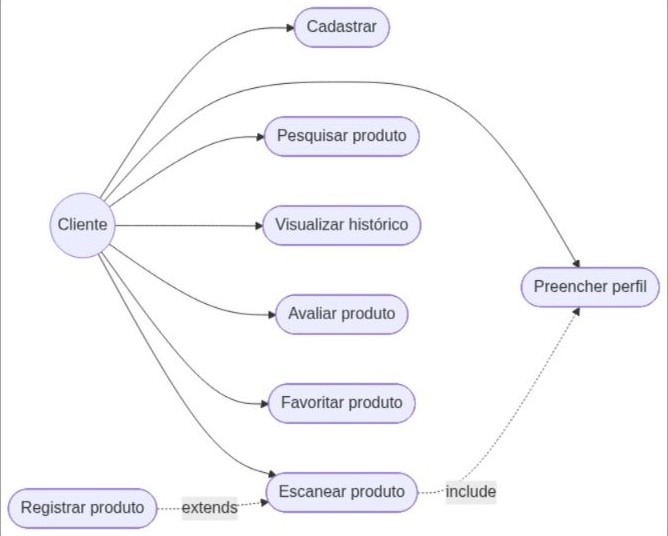
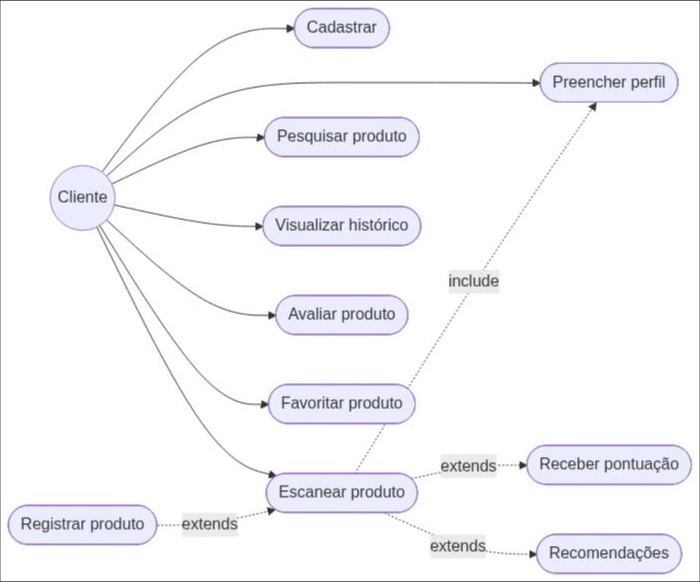
revert direct EQS documentation commits

diff --git a/docs/eqs entrega/Documentacao_Entrega_EQS_Venus.md b/docs/eqs entrega/Documentacao_Entrega_EQS_Venus.md
@@ -38,11 +38,11 @@ A decisão arquitetural aplicada foi separar verdade operacional, cálculo deter
 | Fonte | Conteúdo incorporado |
 |---|---|
 | Planejamento Venus | objetivo, visão, stack, dinâmica, papéis, escopo, fases, riscos, qualidade e entregáveis |
-| Padrão de Projeto.docx | referência do planejamento; arquivo original não versionado; padrões comprovados no código estão descritos na seção 28 |
-| Requisitos.xlsx | referência do planejamento; arquivo original não versionado; requisitos transcritos e rastreados nesta entrega |
+| Padrão de Projeto.docx | padrão Repository aplicado ao Venus-CRUD |
+| Requisitos.xlsx | 131 requisitos funcionais, técnicos, de segurança, UX e não funcionais |
 | Draw.io de casos de uso | cadastro, perfil, scan, pesquisa, histórico, avaliação, favoritos, pontuação e recomendação |
 | Draw.io de atividades | fluxos de perfil e escaneamento |
-| Texto colado do Jira | 170 itens com chave, tipo, responsável, status, prioridade e datas |
+| [Backlog do Jira (projeto SCRUM)](https://venus2026.atlassian.net/jira/software/projects/SCRUM/boards/1/backlog) | 170 itens com chave, tipo, responsável, status, prioridade e datas |
 
 ### Repos do projeto
 
@@ -721,8 +721,8 @@ stateDiagram-v2
     [*] --> pending_review
     pending_review --> approved: revisão/aprovação
     pending_review --> rejected: revisão/rejeição
-    approved --> synced: /sync concluído
-    approved --> sync_failed: /sync falhou
+    approved --> synced: sincronizou na aprovação
+    approved --> sync_failed: falhou na aprovação
     sync_failed --> synced: nova tentativa de /sync concluída
     sync_failed --> sync_failed: nova tentativa falhou
     rejected --> [*]
@@ -836,13 +836,13 @@ A IA explica o resultado, mas não substitui a Classificação nem altera a font
 
 ### Diagramas Draw.io inseridos no corpo da entrega
 
-![Diagrama de casos de uso do Venus](venus-diagrama-casos-de-uso.png)
+![Diagrama de casos de uso do Venus](diagramas-png/venus-eqs-casos-de-uso.png)
 
-![Diagrama de atividades do perfil](venus-diagrama-atividades-perfil.png)
+![Diagrama de atividades do perfil](diagramas-png/venus-eqs-atividades-perfil.png)
 
-![Diagrama de atividades do scan](venus-diagrama-atividades-scan.png)
+![Diagrama de atividades do scan](diagramas-png/venus-eqs-atividades-scan.png)
 
-As imagens acima foram geradas a partir dos três arquivos Draw.io originais do planejamento e ficam no mesmo diretório desta documentação para compor o corpo do texto.
+As imagens acima foram exportadas a partir dos três arquivos Draw.io originais do planejamento e ficam em `diagramas-png/` para compor o corpo do texto.
 
 ### Rastreabilidade entre casos de uso e requisitos funcionais
 
@@ -862,7 +862,7 @@ A numeração abaixo segue a planilha Requisitos.xlsx. Os intervalos representam
 | Pesquisar produto | 69 a 72 |
 | Chatbot/IA (complementar ao diagrama original) | 65 a 68 |
 
-A leitura do diagrama é: Escanear produto inclui Preencher perfil; Registrar produto estende Escanear produto quando o item não existe. Os casos Cadastrar, Pesquisar produto, Visualizar histórico, Avaliar produto e Favoritar produto são acionados diretamente pelo cliente.
+A leitura do diagrama é: Escanear produto inclui Preencher perfil; Registrar produto estende Escanear produto quando o item não existe; e o fluxo de Escanear produto estende Receber pontuação e Recomendações. Os casos Cadastrar, Pesquisar produto, Visualizar histórico, Avaliar produto e Favoritar produto são acionados diretamente pelo cliente.
 
 ~~~mermaid
 flowchart LR
@@ -875,6 +875,8 @@ flowchart LR
     C --> FAV([Favoritar produto])
     SCAN -. include .-> PERF
     REG([Registrar produto]) -. extends .-> SCAN
+    SCORE([Receber pontuação]) -. extends .-> SCAN
+    REC([Recomendações]) -. extends .-> SCAN
 ~~~
 
 ~~~mermaid
@@ -1225,41 +1227,3 @@ A entrega visual foi fechada com 30 arquivos PNG. O conjunto inclui os três dia
 O catálogo com a imagem de cada diagrama, a origem no repositório e o link relativo para o arquivo está em [DIAGRAMAS_PNG.md](diagramas-png/DIAGRAMAS_PNG.md). Os PNGs ficam reunidos em [diagramas-png/](diagramas-png/), para que possam ser reutilizados diretamente no PDF, nas evidências do M3 e na apresentação do projeto.
 
 A conversão preservou os arquivos originais: SVGs e fontes Mermaid continuam sendo a fonte editável nos repositórios; os PNGs são as evidências visuais exportadas para leitura e entrega.
-\n
-## 28. Padrões de projeto evidenciados
-
-Esta seção registra somente padrões identificados no código e na documentação versionados nos repositórios do projeto. A inclusão é documental: não foram criadas classes, rotas, anotações ou alterações de comportamento.
-
-Os arquivos **Padrão de Projeto.docx** e **Requisitos.xlsx**, citados no planejamento, não foram encontrados nos repositórios consultados. Por isso, a entrega considera apenas os padrões comprováveis no código existente.
-
-### 28.1 Repository
-
-O padrão Repository está aplicado no **Venus-CRUD** para encapsular a persistência e separar o acesso ao PostgreSQL e ao MongoDB da regra de negócio. Os services dependem de interfaces Spring Data, enquanto as entities e documentos permanecem isolados da camada HTTP.
-
-Evidências:
-
-- [ProductRepository.java](https://github.com/Venus-System/Venus-CRUD/blob/main/src/main/java/com/venus/crud/repository/jpa/product/ProductRepository.java)
-- [ScanSessionRepository.java](https://github.com/Venus-System/Venus-CRUD/blob/main/src/main/java/com/venus/crud/repository/mongo/ScanSessionRepository.java)
-- [Decisão de organização das camadas](https://github.com/Venus-System/Venus-CRUD/blob/main/docs/decisoes/04-pacotes-mvc.md)
-
-### 28.2 DTO + Mapper
-
-O padrão DTO + Mapper está aplicado no **Venus-CRUD** para impedir que entities JPA ou documentos Mongo sejam expostos diretamente pela API. Os DTOs definem o contrato externo e os mappers MapStruct realizam a conversão entre request/response e o modelo interno.
-
-A configuração `VenusMapperConfig` registra os mappers como beans Spring e faz o build falhar quando um campo de destino fica sem mapeamento. O `ProductMapper` exemplifica as conversões `toEntity`, `toResponse`, `updateEntity` e `patchEntity`.
-
-Evidências:
-
-- [VenusMapperConfig.java](https://github.com/Venus-System/Venus-CRUD/blob/main/src/main/java/com/venus/crud/config/VenusMapperConfig.java)
-- [ProductMapper.java](https://github.com/Venus-System/Venus-CRUD/blob/main/src/main/java/com/venus/crud/mapper/jpa/product/ProductMapper.java)
-- [ProductResponse.java](https://github.com/Venus-System/Venus-CRUD/blob/main/src/main/java/com/venus/crud/dto/jpa/response/product/ProductResponse.java)
-- [Decisão sobre MapStruct e DTOs](https://github.com/Venus-System/Venus-CRUD/blob/main/docs/decisoes/04-pacotes-mvc.md)
-
-### 28.3 Resultado da verificação dos repositórios
-
-A busca transversal encontrou evidência explícita de `Repository`, `DTO` e `Mapper` no Venus-CRUD. Nos demais repositórios, não foi localizado um artefato versionado que permita afirmar a aplicação de outro padrão de projeto. Portanto, esta documentação não atribui padrões adicionais ao Venus-Banco, Venus-Classificacao, Venus-Web, Venus-mobile, Venus-AI-api, Venus-AI-Sdk ou Venus-1ANO-CRUD.
-
-### 28.4 Limite da entrega
-
-Os padrões acima descrevem componentes que já existiam e continuam sendo usados pelo sistema. Nenhuma implementação funcional foi modificada para produzir esta seção.
-\n
